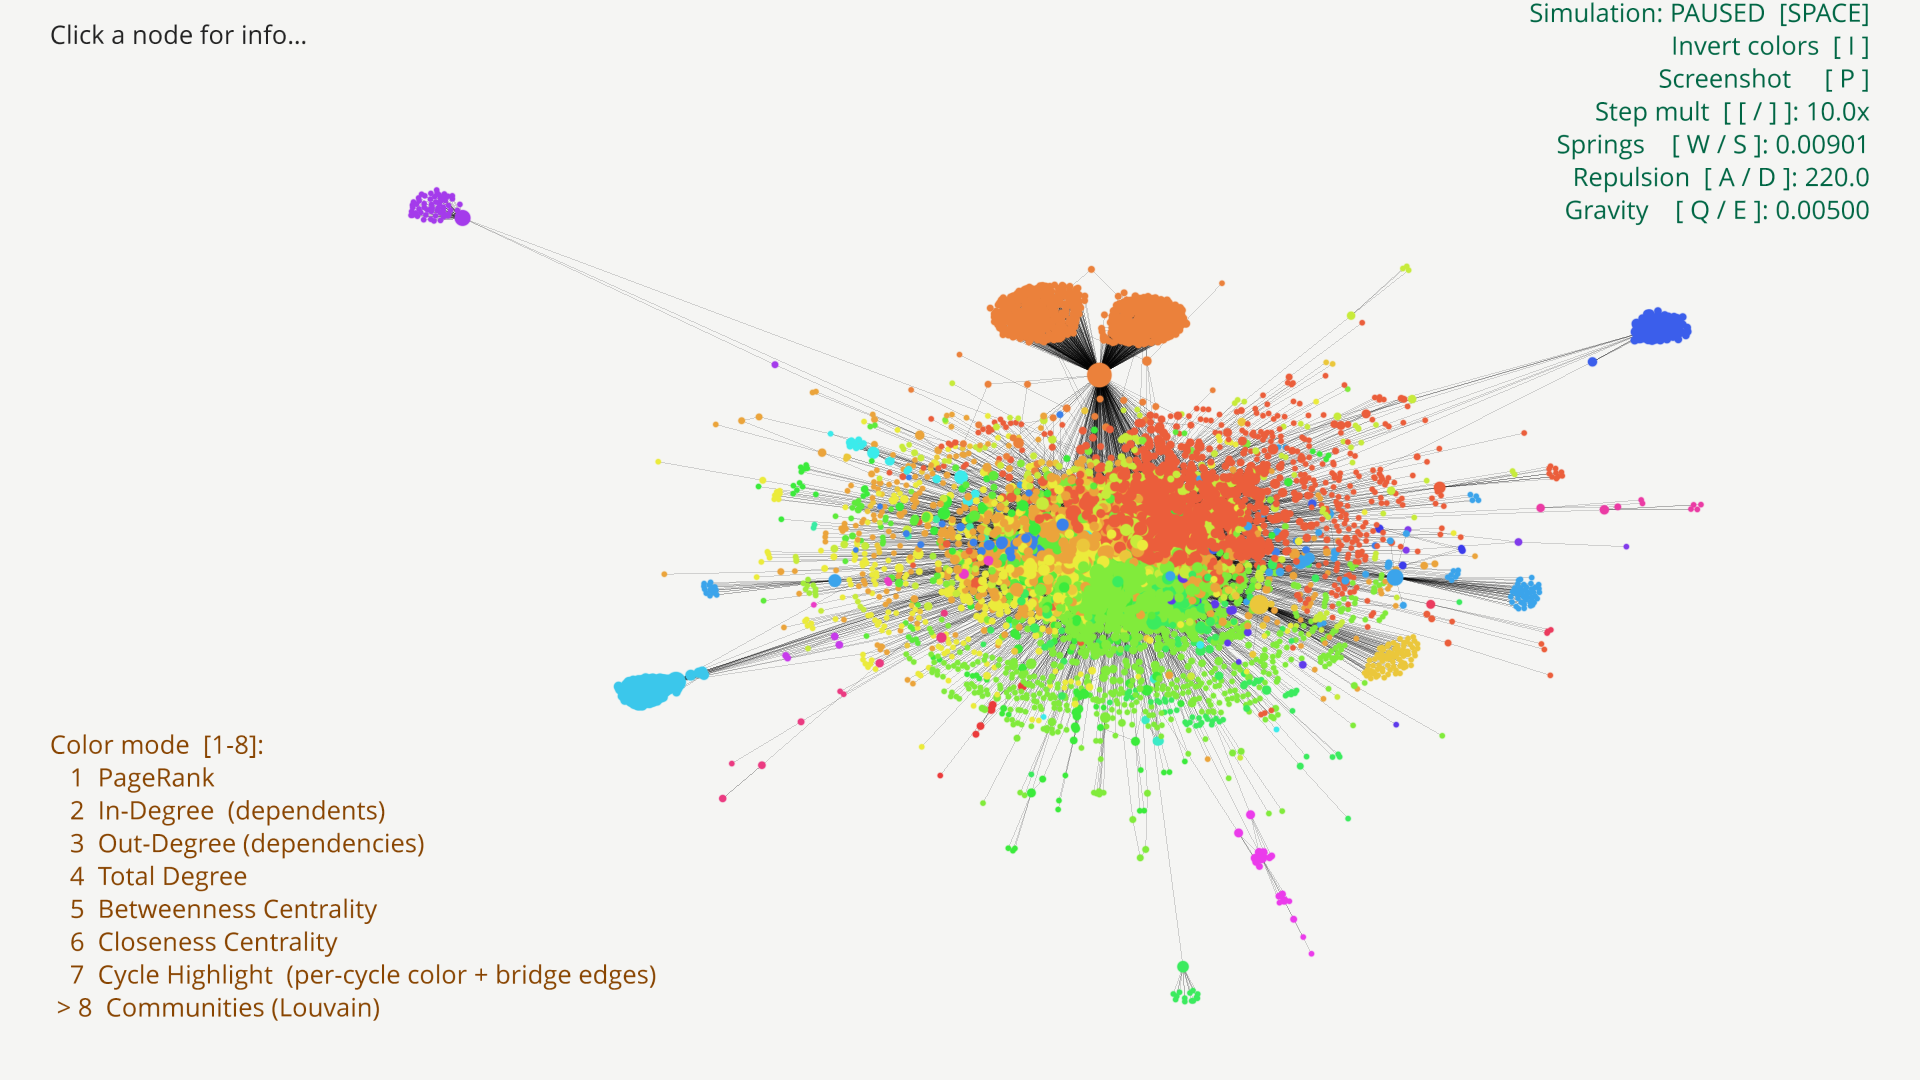
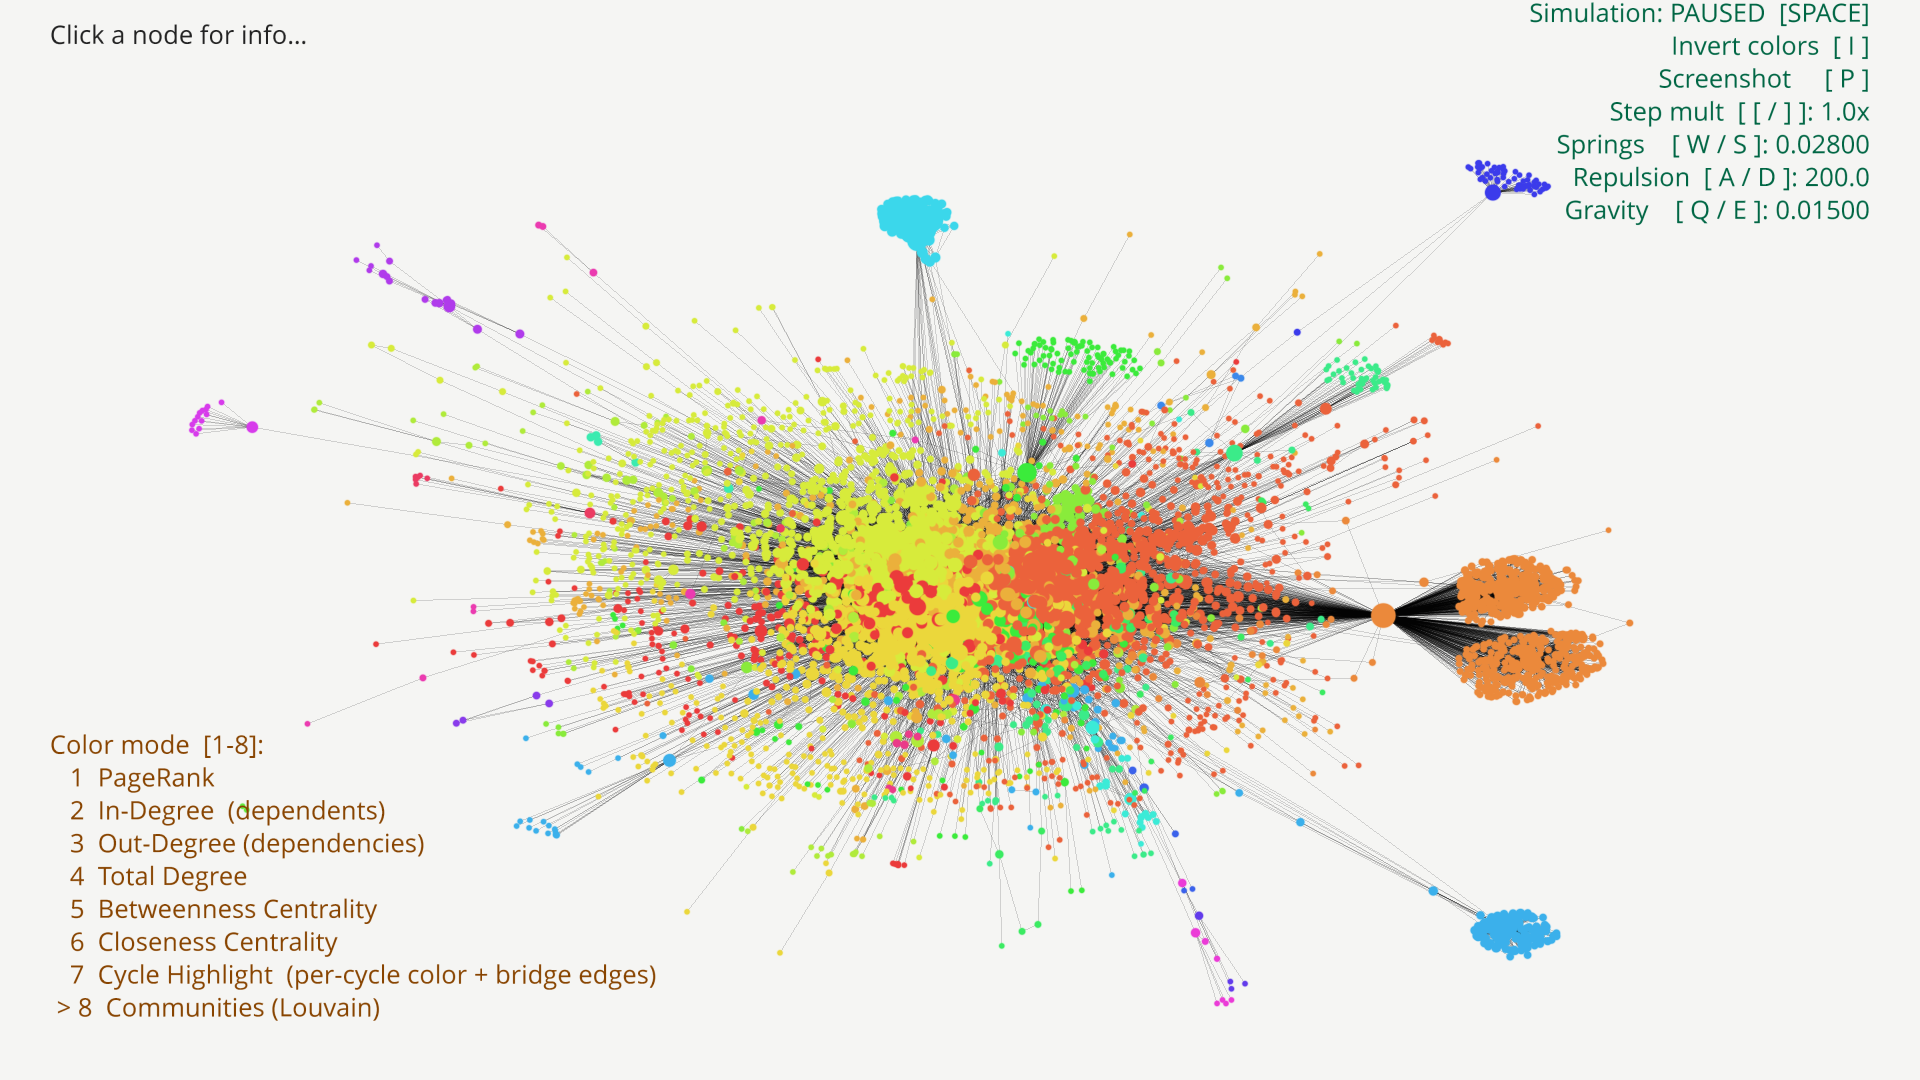
cosas

diff --git a/grafos/visualizer.py b/grafos/visualizer.py
@@ -160,15 +160,14 @@ def precompute_metrics(g):
     ug         = g.as_undirected(combine_edges="first")
     comm       = ug.community_multilevel()
     membership = np.array(comm.membership, dtype=np.int32)
-    n_comm     = membership.max() + 1
-    print(f"    {n_comm} communities found")
-
+    print(f"len(comm)={len(comm)}, membership.max()+1={membership.max()+1}")
+    n_comm     = len(comm)
+    
     def cmap_cycle_highlight(norm):
         return node_colors_mode7(cycle_id, cycle_palette)
 
     def cmap_community(norm):
         return generate_community_colors(membership, n_comm)
-
     metrics = {
         "pagerank":     (normalize_log(pr),               "plasma",          "PageRank"),
         "in_degree":    (normalize_log(in_deg),           "inferno",         "In-Degree  (dependents)"),
@@ -199,12 +198,7 @@ def main():
     g = ig.Graph.Read_GraphML("pypi_multiseed_10k.graphml")
     print(f"  {g.vcount()} nodes, {g.ecount()} edges")
 
-    print("Computing layout…")
-    layout   = g.layout_drl()
-    pos      = np.array(layout.coords, dtype=np.float32)
-    velocity = np.zeros_like(pos)
-    edges    = np.array([e.tuple for e in g.es], dtype=np.uint32)
-
+    
     in_deg  = np.array(g.indegree(),  dtype=np.float64)
     out_deg = np.array(g.outdegree(), dtype=np.float64)
     log_deg         = np.log1p(out_deg + in_deg)
@@ -217,6 +211,14 @@ def main():
 
     cycle_id      = metrics["_cycle_id"]
     cycle_palette = metrics["_cycle_palette"]
+
+
+
+    print("Computing layout…")
+    layout   = g.layout_drl()
+    pos      = np.array(layout.coords, dtype=np.float32)
+    velocity = np.zeros_like(pos)
+    edges    = np.array([e.tuple for e in g.es], dtype=np.uint32)
 
     print("Precomputing mode-7 edge partitions…")
     intra_edges, inter_edges = compute_mode7_edge_masks(edges, cycle_id)

diff --git a/grafos/comunities.py b/grafos/comunities.py
@@ -4,7 +4,6 @@ import random
 
 ig.set_random_number_generator(random.Random(42))
 
-
 def generate_cycle_palette(n, saturation=0.75, value=0.92):
     palette = []
     for i in range(n):
